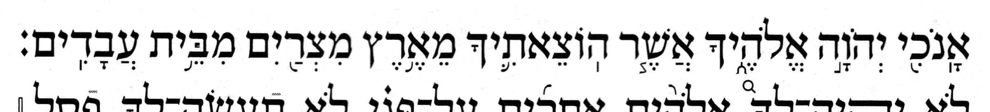
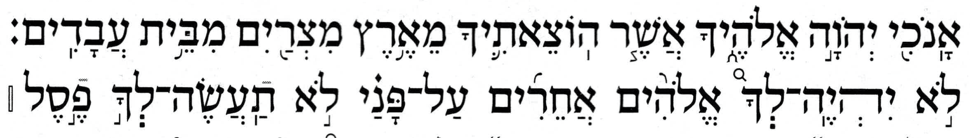
Add word-highlights to Simanim Tanakh p. 350 elyon scan
Replace the p. 350 (m-trad elyon) scan with a cleaner screenshot and mark
its two words עבדים and על־פני, mirroring the p. 83 / p. 246 / p. 119
highlights already on the page.

- printed_decalogue_simanim_page.py: add _P350_BOXES (970x138 scan pixel
  space, from gen_highlight_picker.py) and pass boxes=/viewbox= to the
  p. 350 elyon _figure() call.
- regenerate printed-decalogue-simanim.html.

diff --git a/gh-pages/accgram/printed-decalogue-simanim.html b/gh-pages/accgram/printed-decalogue-simanim.html
@@ -88,7 +88,15 @@ Conclusion</h2>
 </div>
 <figcaption>Simanim Tanakh, p. 119 — the start of the Exodus main Decalogue, in the m-trad תחתון cantillation.</figcaption>
 </figure>
-<figure><img src="img/Simanim-Tanakh-p-350-Ex-Dec-elyon-m-trad.png" alt="Simanim Tanakh p. 350: the Exodus Decalogue in the appendix to the Torah section, in the m-trad elyon" class="ink-on-white">
+<figure><div class="scan-annot">
+<img src="img/Simanim-Tanakh-p-350-Ex-Dec-elyon-m-trad.png" alt="Simanim Tanakh p. 350: the Exodus Decalogue in the appendix to the Torah section, in the m-trad elyon" class="ink-on-white">
+<svg class="scan-annot-overlay" viewBox="0 0 970 138" preserveAspectRatio="none" aria-hidden="true">
+<rect x="5" y="6" width="132" height="60" rx="6">
+</rect>
+<rect x="348" y="64" width="128" height="66" rx="6">
+</rect>
+</svg>
+</div>
 <figcaption>Simanim Tanakh, p. 350 — the Exodus Decalogue in the appendix to the Torah section, in the m-trad עליון cantillation.</figcaption>
 </figure>
 <p>The two editions also swap which strand goes in the main Decalogue and which in an appendix, as one would expect from their different purposes: the Tiqqun runs the עליון in its main Decalogue and appends the תחתון, whereas the Tanakh does the reverse — the everyday תחתון in the main Decalogue and the עליון in an appendix. And because this is a Tanakh, not a Torah-only Tiqqun, that appendix sits at the end of the Torah section — mid-volume, before the Prophets — not at the back of the book.</p>

diff --git a/py/accgram/printed_decalogue_simanim_page.py b/py/accgram/printed_decalogue_simanim_page.py
@@ -116,6 +116,16 @@ _P119_BOXES: tuple[mhi.Box, ...] = (
     mhi.Box(x=354, y=107, w=131, h=61),
     mhi.Box(x=718, y=163, w=134, h=68),
 )
+# Highlight rectangles in Simanim-Tanakh-p-350 pixel space (970x138, the scan's own
+# resolution = the overlay viewBox). Mirroring the p. 83 / p. 246 / p. 119 highlights above,
+# these two mark עבדים and על־פני -- the same two words, present here in the m-trad elyon of
+# the Torah-section appendix regardless of strand. Coordinates come from
+# py/accgram/gen_highlight_picker.py (drag boxes over the words, export the `px` boxes). Note
+# this scan is a different size again (970x138 vs 961x664, 1149x327, and 972x259).
+_P350_BOXES: tuple[mhi.Box, ...] = (
+    mhi.Box(x=5, y=6, w=132, h=60),
+    mhi.Box(x=348, y=64, w=128, h=66),
+)
 # Simanim *Tanakh*, a different edition from the Tiqqun though Feldheim publishes both (issue #62
 # scope note): both its Exodus Decalogue strands are m-trad, unlike the Tiqqun's p-trad -- the
 # main-Decalogue taxton (p. 119) and the elyon in the Torah section's appendix (p. 350).
@@ -675,6 +685,8 @@ def _conclusion() -> tuple[object, ...]:
                 f" section, in the m-trad {_ELYON} cantillation.",
             ),
             width=None,
+            boxes=_P350_BOXES,
+            viewbox=(970, 138),
         ),
         H.para(
             (
